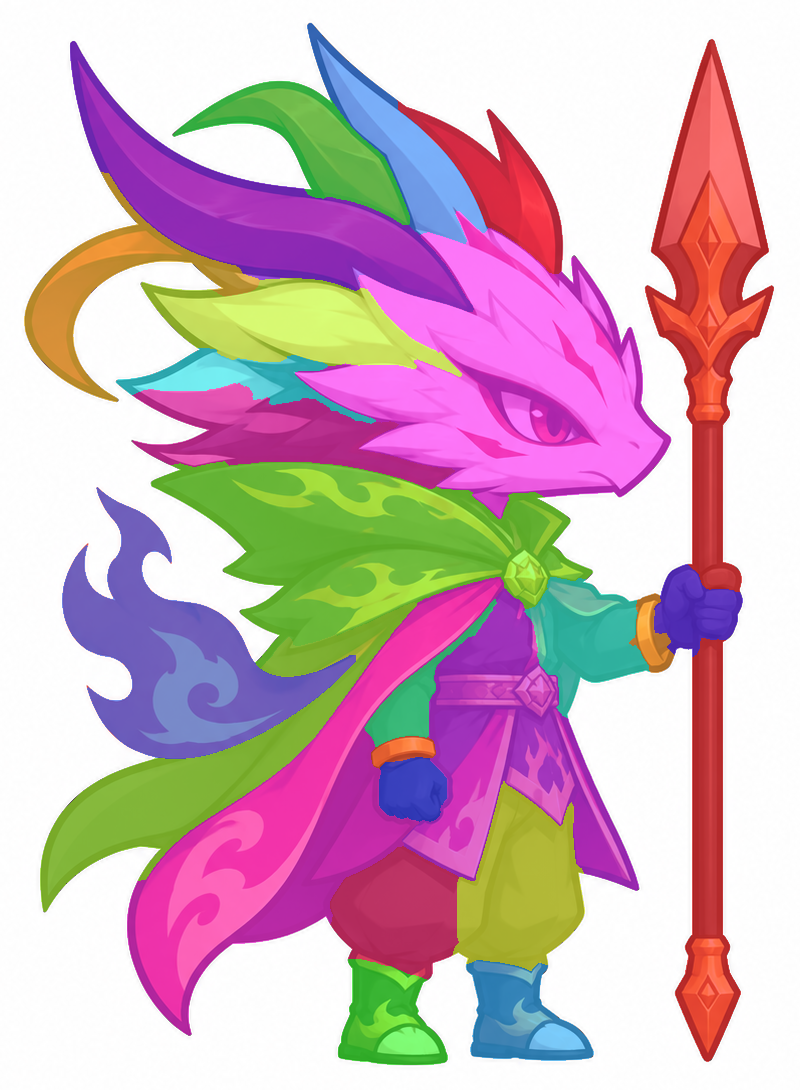
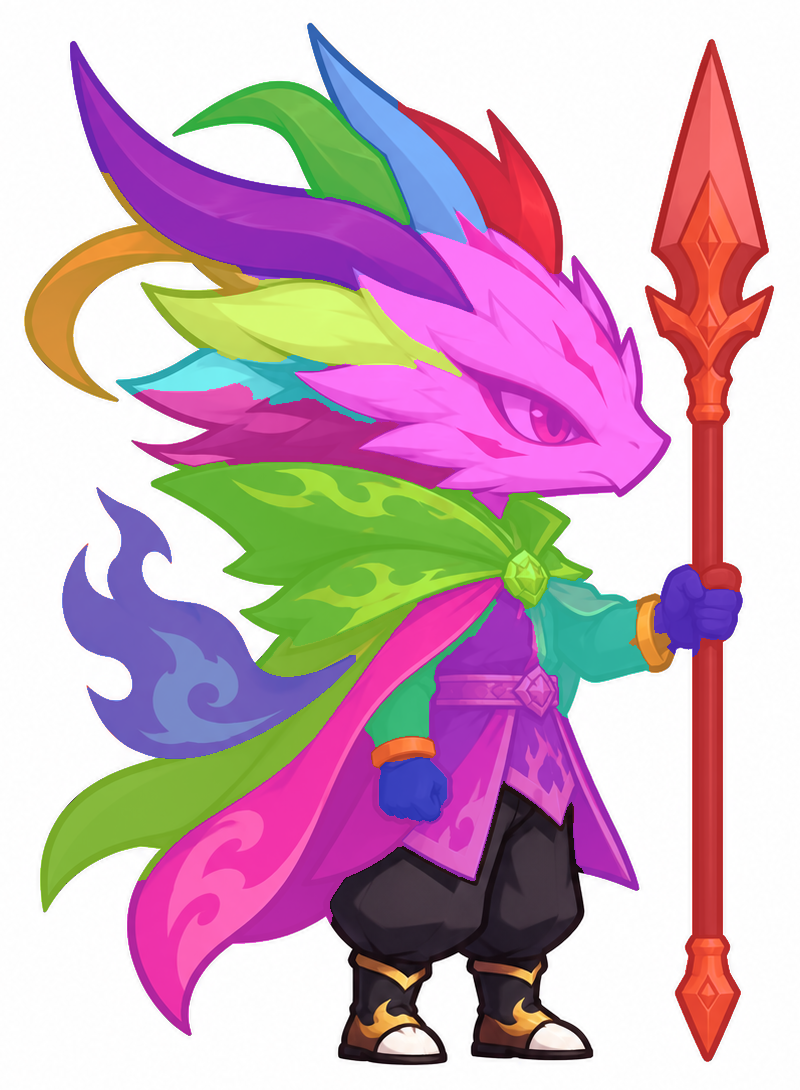
dragonrig: new armoured legs drawn as whole rig pieces

Changed region(s): [[0.4062, 0.7174, 0.75, 0.9982]]

diff --git a/dragonrig.html b/dragonrig.html
@@ -59,6 +59,7 @@ function buildBones() {
 function chainPts(c) { const n = RIG.chains[c].n, p = []; for (let i = 0; i < n; i++) { const d = B[c + i].userData.d; p.push([d.x, d.y]); } p.push(RIG.chains[c].end); return p; }
 function weightsFor(part, x, y) {
   const b = part.bone;
+  if (part.kit) return [[B[b], 1]];   /* the new legs are whole pieces: each follows one bone */
   if (RIG.chains[b]) {
     const P = chainPts(b); let best = 1e12, si = 0, st = 0;
     for (let i = 0; i < P.length - 1; i++) { const ax = P[i][0], ay = P[i][1], dx = P[i + 1][0] - ax, dy = P[i + 1][1] - ay, t = clamp(((x - ax) * dx + (y - ay) * dy) / (dx * dx + dy * dy), 0, 1), q = (x - ax - dx * t) ** 2 + (y - ay - dy * t) ** 2; if (q < best) { best = q; si = i; st = t; } }

diff --git a/tools/art/dragon_rig_parts.py b/tools/art/dragon_rig_parts.py
@@ -17,8 +17,8 @@ SRC = 'art/incoming/dragon_moves/base_side.png'; CUT = 'art/incoming/dragon_mesh
 # name, parent, x, y (picture px)
 BONES = [
     ('root', None, 660, 1162), ('hips', 'root', 660, 965), ('chest', 'hips', 680, 860), ('head', 'chest', 735, 610),
-    ('thigh_b', 'hips', 600, 990), ('shin_b', 'thigh_b', 598, 1062), ('foot_b', 'shin_b', 590, 1132),
-    ('thigh_f', 'hips', 722, 990), ('shin_f', 'thigh_f', 726, 1062), ('foot_f', 'shin_f', 735, 1132),
+    ('thigh_b', 'hips', 604, 965), ('shin_b', 'thigh_b', 598, 1031), ('foot_b', 'shin_b', 590, 1096),
+    ('thigh_f', 'hips', 708, 965), ('shin_f', 'thigh_f', 712, 1031), ('foot_f', 'shin_f', 718, 1096),
     ('arm_n', 'chest', 642, 772), ('fore_n', 'arm_n', 612, 838), ('fist_n', 'fore_n', 610, 884),
     ('arm_f', 'chest', 770, 725), ('fore_f', 'arm_f', 825, 738), ('hand_f', 'fore_f', 880, 716), ('spear', 'hand_f', 908, 708),
 ]
@@ -96,8 +96,32 @@ for _ in range(2):   # a small island (a tip's outline) joins the part it actual
             c = l == q; ring = nd.binary_dilation(c, iterations=2) & ~c; v = lab[ring]; v = v[(v > 0) & (v != i)]
             if len(v): lab[c] = np.bincount(v).argmax()
 
+# NEW LEGS (owner "ออกแบบขาใหม่", picked design B): Codex's whole thigh / shin / boot replace the legs of the standing picture
+LEGS = 'art/incoming/dragon_legs/legs_b.png'; OLD = ('thigh_b', 'shin_b', 'thigh_f', 'shin_f'); KK = .27
+old_mask = np.isin(lab, [i + 1 for i, p in enumerate(PARTS) if p[0] in OLD]); pic_alpha = alpha.copy(); alpha = np.where(old_mask, 0, alpha); lab[old_mask] = 0; fig = alpha >= 16
+def kit_tiles():
+    k = np.array(Image.open(LEGS).convert('RGB')).astype(float); m = np.minimum(k[..., 0], k[..., 2]) - k[..., 1]; al = 1 - np.clip((m - 62) / 118, 0, 1); q = np.clip(al, .08, 1)[..., None]
+    c = np.clip((k - (1 - q) * np.array([255., 0, 255])) / q, 0, 255); edge = (al > 0) & (al < .98); c[edge, 2] = np.minimum(c[edge, 2], np.maximum(c[edge, 0], c[edge, 1]) * 1.04); art = np.dstack([c, al * 255]).astype(np.uint8)
+    l, n = nd.label(nd.binary_dilation(al > .5, iterations=4), structure=np.ones((3, 3))); boxes = sorted(nd.find_objects(l), key=lambda b: b[1].start)[:3]; bone = {b[0]: b for b in BONES}; out = []
+    PIV = [((250, 300), (250, 560)), ((730, 340), (730, 600)), ((1120, 420), None)]
+    for side, dark in (('b', True), ('f', False)):
+        for (nm, b, (p0, p1)) in zip(('thigh', 'shin', 'foot'), boxes, PIV):
+            name = f'{nm}_{side}'; j = bone[name]; ky = KK
+            if p1:
+                child = bone[{'thigh': 'shin', 'shin': 'foot'}[nm] + '_' + side]; ky = np.hypot(child[2] - j[2], child[3] - j[3]) / (p1[1] - p0[1])
+            a = art[b[0].start:b[0].stop, b[1].start:b[1].stop].copy(); w, h = max(1, round(a.shape[1] * KK)), max(1, round(a.shape[0] * ky))
+            im = np.array(Image.fromarray(a, 'RGBA').resize((w, h), Image.LANCZOS)).copy()
+            if dark: im[..., :3] = np.clip(im[..., :3] * np.array([.72, .70, .78]), 0, 255).astype(np.uint8)
+            x = int(round(j[2] - (p0[0] - b[1].start) * KK)); y = int(round(j[3] - (p0[1] - b[0].start) * ky))
+            col = [int(v) for v in np.array(colorsys.hsv_to_rgb(({'thigh': .95, 'shin': .55, 'foot': .3}[nm]), .75, .72 if dark else 1)) * 255]
+            out.append({'name': name, 'bone': name, 'x': x, 'y': y, 'w': w, 'h': h, 'px': im, 'color': col, 'kit': 1})
+    return out
+KIT = kit_tiles(); kit_done = False
 tiles = []; over = rgb.astype(float).copy()
 for i, (n, b, _, reach) in enumerate(PARTS):
+    if n in OLD:
+        if not kit_done: tiles.extend(KIT); kit_done = True
+        continue
     m = lab == i + 1; col = np.array(colorsys.hsv_to_rgb(i * .618 % 1, .8, 1)) * 255; over[m] = over[m] * .35 + col * .65
     a = np.where(m, alpha, 0).astype(np.uint8); c = rgb.copy()
     if reach:
@@ -126,10 +150,11 @@ atlas.save(f'{OUT}/atlas.webp', 'WEBP', quality=93, alpha_quality=100, method=6)
 Image.fromarray(over.astype(np.uint8)).crop((200, 100, 1000, 1190)).save(f'{OUT}/parts_map.png')
 rig = {'w': AW, 'h': AH, 'bones': [{'n': b[0], 'p': b[1], 'x': b[2], 'y': b[3]} for b in BONES],
        'chains': {c: {'n': len(p[1]) - 1, 'end': p[1][-1]} for c, p in CHAINS.items()},
-       'parts': [{k: t[k] for k in ('name', 'bone', 'x', 'y', 'w', 'h', 'ax', 'ay', 'color')} for t in tiles]}
+       'parts': [{**{k: t[k] for k in ('name', 'bone', 'x', 'y', 'w', 'h', 'ax', 'ay', 'color')}, **({'kit': 1} if t.get('kit') else {})} for t in tiles]}
 json.dump(rig, open(f'{OUT}/rig.json', 'w'), separators=(',', ':'))
 # the parts put back together at rest must equal the picture
 back = Image.new('RGBA', (W, H), (0, 0, 0, 0))
-for t in tiles: back.alpha_composite(Image.fromarray(t['px'], 'RGBA'), (t['x'], t['y']))
+for t in tiles:
+    if not t.get('kit'): back.alpha_composite(Image.fromarray(t['px'], 'RGBA'), (t['x'], t['y']))
 b = np.array(back).astype(int); e = np.abs(b[..., :3] - rgb.astype(int)).max(2)[alpha > 200]
 print(len(tiles), 'parts', len(BONES), 'bones, atlas', AW, AH, os.path.getsize(f'{OUT}/atlas.webp') // 1024, 'KB; rest error: mean', round(float(e.mean()), 2), 'over 12:', round(float((e > 12).mean() * 100), 3), '%')
